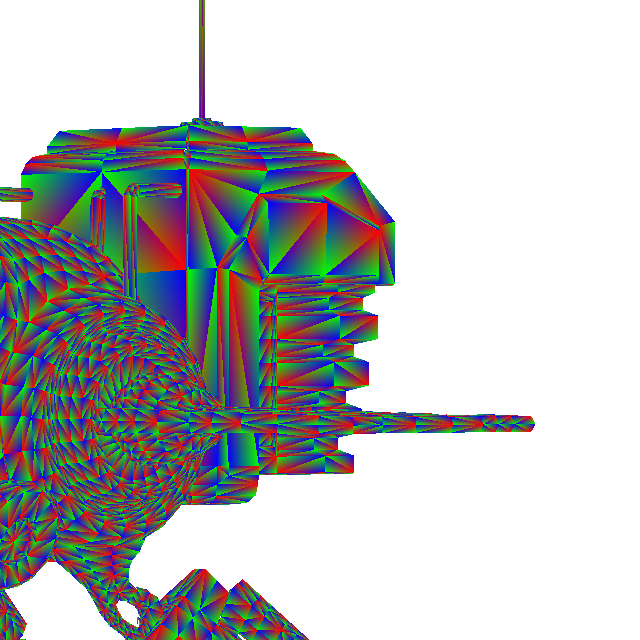
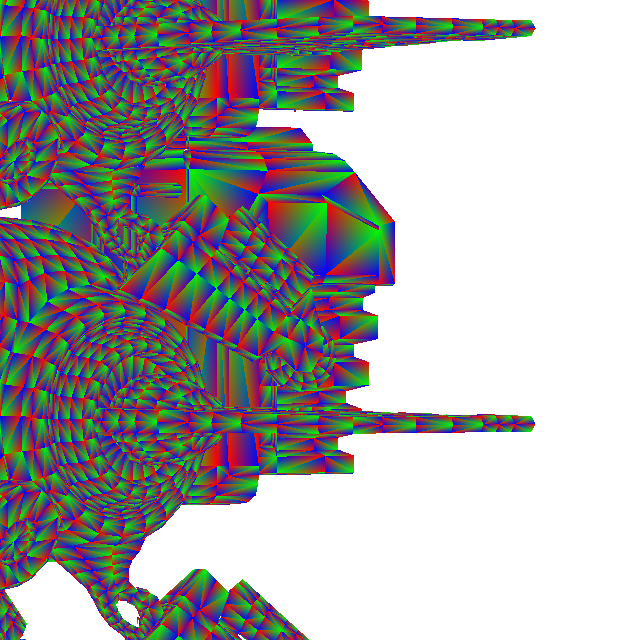
rayon parallel for

diff --git a/src/trace.rs b/src/trace.rs
@@ -1,3 +1,4 @@
+use rayon::prelude::*;
 use std::sync::mpsc;
 
 use crate::{
@@ -26,21 +27,43 @@ impl Tracer for CpuTracer {
     ) {
         let width = framebuffer.width();
         let height = framebuffer.height();
-        for y in 0..height {
-            // let (tx, rx) = mpsc::channel::<Vec<HdrColor>>();
-            // let handle = std::thread::spawn(move || {
+        // for y in 0..height {
+        //     // let (tx, rx) = mpsc::channel::<Vec<HdrColor>>();
+        //     // let handle = std::thread::spawn(move || {
+        //     for x in 0..width {
+        //         let ray = camera.ray(x, y, width, height);
+        //         let record = acceleration_structure.traverse(&ray);
+        //         if record.t < f32::MAX {
+        //             framebuffer.set_pixel(
+        //                 x,
+        //                 y,
+        //                 HdrColor::new(1.0 - record.u - record.v, record.u, record.v, 1.0),
+        //             );
+        //         }
+        //     }
+        // }
+
+        (0..height).into_par_iter().for_each(|y| {
+            let mut row = Vec::with_capacity(width);
             for x in 0..width {
                 let ray = camera.ray(x, y, width, height);
                 let record = acceleration_structure.traverse(&ray);
                 if record.t < f32::MAX {
-                    framebuffer.set_pixel(
-                        x,
-                        y,
-                        HdrColor::new(record.u, record.v, 1.0 - record.u - record.v, 1.0),
-                    );
+                    // framebuffer.set_pixel(
+                    //     x,
+                    //     y,
+                    //     HdrColor::new(1.0 - record.u - record.v, record.u, record.v, 1.0),
+                    // );
+
+                    row.push(HdrColor::new(
+                        1.0 - record.u - record.v,
+                        record.u,
+                        record.v,
+                        1.0,
+                    ));
                 }
             }
-        }
+        });
     }
     // }
     // }

diff --git a/src/main.rs b/src/main.rs
@@ -4,6 +4,7 @@ pub mod frame_buffer;
 pub mod gpu_acceleration_structure;
 pub mod gpu_blas;
 pub mod intersect;
+pub mod mesh;
 pub mod ray_generator;
 pub mod top_level_acceleration_structure;
 pub mod trace;
@@ -30,7 +31,7 @@ use crate::{
     gpu_blas::{GpuBlas, GpuInstanceProxy},
     top_level_acceleration_structure::{Instance, TopLevelAccelerationStructure},
     trace::{CpuTracer, Tracer},
-    types::{HdrColor, Position, Vec3},
+    types::{HdrColor, Mat4, Position},
 };
 
 fn read_triangle_file(name: &str) -> (Vec<Vertex>, Vec<Triangle>) {
@@ -184,7 +185,11 @@ fn main() {
         logical_device.clone(),
         midpoint_split_acc.clone(),
     ));
-    let gpu_instances = [GpuInstanceProxy::new(object.clone(), 0)];
+    let gpu_instances = [
+        GpuInstanceProxy::new(object.clone(), 0),
+        GpuInstanceProxy::new(object.clone(), 1)
+            .with_transform(Mat4::from_translation(Position::new(0.0, 1.0, 0.0))),
+    ];
 
     let shader_path = std::env::current_dir()
         .unwrap()

diff --git a/src/gpu_acceleration_structure.rs b/src/gpu_acceleration_structure.rs
@@ -8,12 +8,10 @@ use vk_utils::{
 use crate::{
     bvh::Node,
     gpu_blas::GpuInstanceProxy,
-    top_level_acceleration_structure::Instance,
     types::{Mat4, AABB},
 };
 
 pub struct GpuTlas {
-    device: Rc<DeviceContext>,
     pub tlas_buffer: BufferResource,
     pub instance_buffer: BufferResource,
 }
@@ -21,7 +19,7 @@ pub struct GpuTlas {
 #[repr(C)]
 struct GpuInstance {
     blas: u64,
-    instance_id: u32,
+    instance_id: u64,
     transform: Mat4,
 }
 
@@ -38,7 +36,7 @@ impl GpuTlas {
             .iter()
             .map(|proxy| GpuInstance {
                 blas: proxy.blas.address(),
-                instance_id: proxy.instance_id,
+                instance_id: proxy.instance_id as u64,
                 transform: proxy.transform,
             })
             .collect();
@@ -66,7 +64,6 @@ impl GpuTlas {
         tlas_buffer.upload(&nodes);
 
         Self {
-            device: device.clone(),
             tlas_buffer,
             instance_buffer,
         }

diff --git a/src/mesh.rs b/src/mesh.rs
@@ -1,0 +1,7 @@
+use crate::types::Vertex;
+
+pub struct Mesh {}
+
+impl Mesh {
+    pub fn new(vertices: &[Vertex]) {}
+}
